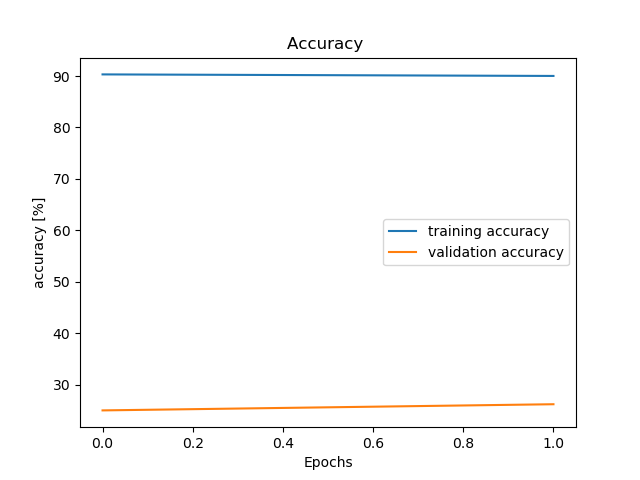
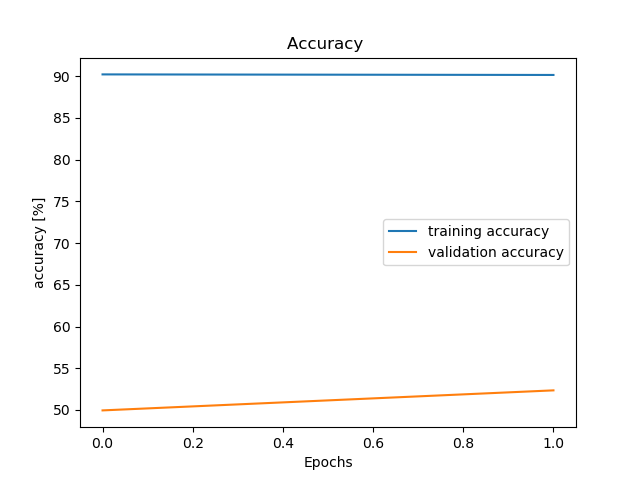
fixed tst accuracy bug and tried other normalizing means for cifar100 dataset

diff --git a/open_world/meta_learner/meta_learner_utils.py b/open_world/meta_learner/meta_learner_utils.py
@@ -7,7 +7,7 @@ from tqdm import tqdm
 
 
 
-def trainMetaModel(model, train_loader, test_loader, epochs, criterion, optimizer, device):
+def trainMetaModel(model, train_loader, test_loader, epochs, criterion, optimizer, device, max_trn_batch, probability_treshold):
     start_time = time.time()
 
     trn_losses = []
@@ -15,8 +15,6 @@ def trainMetaModel(model, train_loader, test_loader, epochs, criterion, optimize
     trn_accs = []
     tst_accs = []
 
-    max_trn_batch = 400
-    max_tst_batch = 1200
 
     for i in range(epochs):
         trn_corr = 0
@@ -41,8 +39,8 @@ def trainMetaModel(model, train_loader, test_loader, epochs, criterion, optimize
             # Tally the number of correct predictions
             predicted = y_pred.detach().clone()
 
-            predicted[predicted <= 0.5] = 0
-            predicted[predicted > 0.5] = 1
+            predicted[predicted <= probability_treshold] = 0
+            predicted[predicted > probability_treshold] = 1
 
             batch_corr = (predicted == y_train).sum()
             trn_corr += batch_corr
@@ -65,8 +63,7 @@ def trainMetaModel(model, train_loader, test_loader, epochs, criterion, optimize
         trn_accs.append(trn_acc)
 
         # Run the testing batches
-        tst_corr, tst_loss = validate_model(test_loader, model, criterion, device)
-        tst_acc = tst_corr.item() * 100 / (test_loader.batch_size * b)
+        tst_acc, tst_loss = validate_model(test_loader, model, criterion, device, probability_treshold)
 
         tst_losses.append(tst_loss.item())
         tst_accs.append(tst_acc)
@@ -76,7 +73,7 @@ def trainMetaModel(model, train_loader, test_loader, epochs, criterion, optimize
     return (trn_losses,tst_losses, trn_accs, tst_accs)
 
 
-def validate_model(loader, model, criterion, device):
+def validate_model(loader, model, criterion, device,probability_threshold):
     num_correct = 0
     num_samples = 0
 
@@ -104,8 +101,8 @@ def validate_model(loader, model, criterion, device):
             # Tally the number of correct predictions
 
             predicted = y_val
-            predicted[predicted <= 0.5] = 0
-            predicted[predicted > 0.5] = 1
+            predicted[predicted <= probability_threshold] = 0
+            predicted[predicted > probability_threshold] = 1
             y_pred.extend(predicted)
             y_true.extend(y_test)
             num_correct += (predicted == y_test).sum()
@@ -116,8 +113,9 @@ def validate_model(loader, model, criterion, device):
     y_true = torch.stack(y_true)
     # Toggle model back to train
     model.train()
+    test_acc = num_correct.item() * 100 / (num_samples)
     print(f'test accuracy: {num_correct.item() * 100 / (num_samples):7.3f}%')
-    return num_correct, loss
+    return test_acc, loss
 
 def extract_features(train_data, model, classes, memory_path, load_memory=False):
 

diff --git a/train_l2ac.py b/train_l2ac.py
@@ -37,6 +37,9 @@ def main():
 
 	train_classes = config['train_classes']
 	train_samples_per_cls = config['train_samples_per_cls']
+	max_trn_batch = config['max_trn_batch']
+	probability_treshold = config['probability_threshold']
+
 
 	train_loader = DataLoader(dataset, batch_size=batch_size, shuffle=True, pin_memory=True)
 
@@ -45,7 +48,8 @@ def main():
 	test_loader = DataLoader(test_dataset, batch_size=batch_size, shuffle=True, pin_memory=True)
 
 	figure_path = config['figures_path'] + 'L2AC'
-	(train_loss, test_loss, train_accs, test_accs) = meta_utils.trainMetaModel(model, train_loader, test_loader, epochs, criterion, optimizer, device)
+	(train_loss, test_loss, train_accs, test_accs) = meta_utils.trainMetaModel(model, train_loader, test_loader, epochs,
+																			   criterion, optimizer, device, max_trn_batch, probability_treshold)
 	plot_utils.plot_losses(train_loss, test_loss, figure_path)
 	plot_utils.plot_accuracy(train_accs, test_accs, figure_path)
 

diff --git a/open_world/ObjectDatasets.py b/open_world/ObjectDatasets.py
@@ -126,11 +126,14 @@ class CIFAR100Dataset(ObjectDatasetBase):
     def __init__(self, dataset_path, top_n=9, top_k=5, n_cls=100, n_smpl=80, train=True):
         super().__init__(dataset_path)
 
+        mean_pixel = [x / 255.0 for x in [125.3, 123.0, 113.9]]
+        std_pixel = [x / 255.0 for x in [63.0, 62.1, 66.7]]
+
         self.transform_train = transforms.Compose([
             transforms.RandomCrop(32, padding=4),
             transforms.RandomHorizontalFlip(),
             transforms.ToTensor(),
-            transforms.Normalize(mean=[0.507, 0.487, 0.441], std=[0.267, 0.256, 0.276])
+            transforms.Normalize(mean=mean_pixel, std=std_pixel)
         ])
 
         self.transform_test = transforms.Compose([
